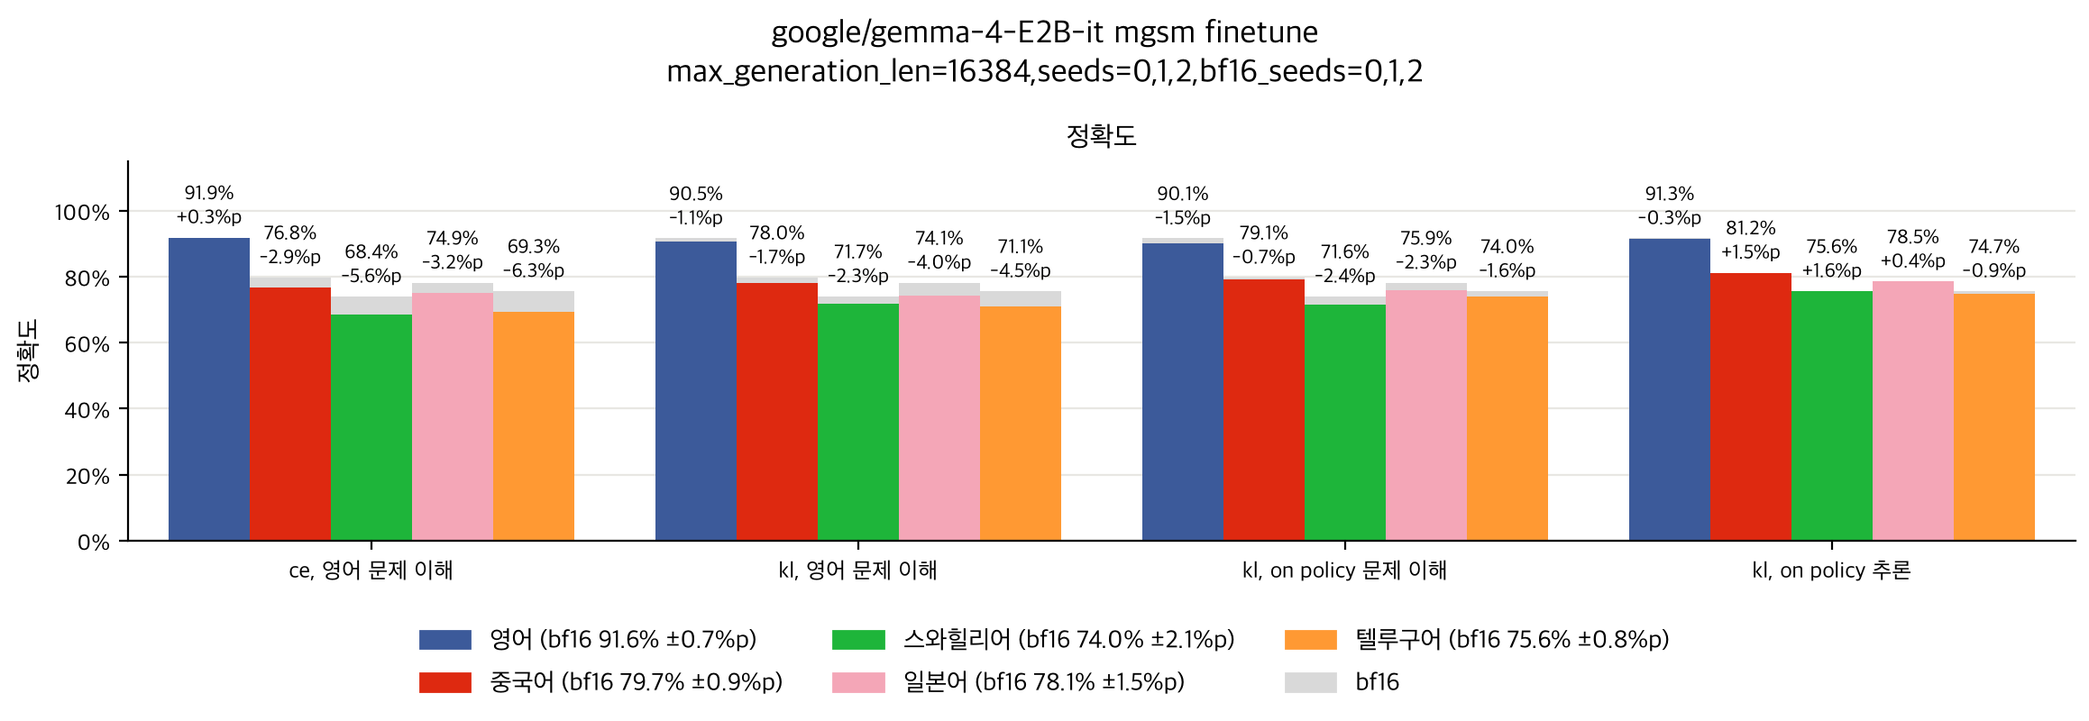
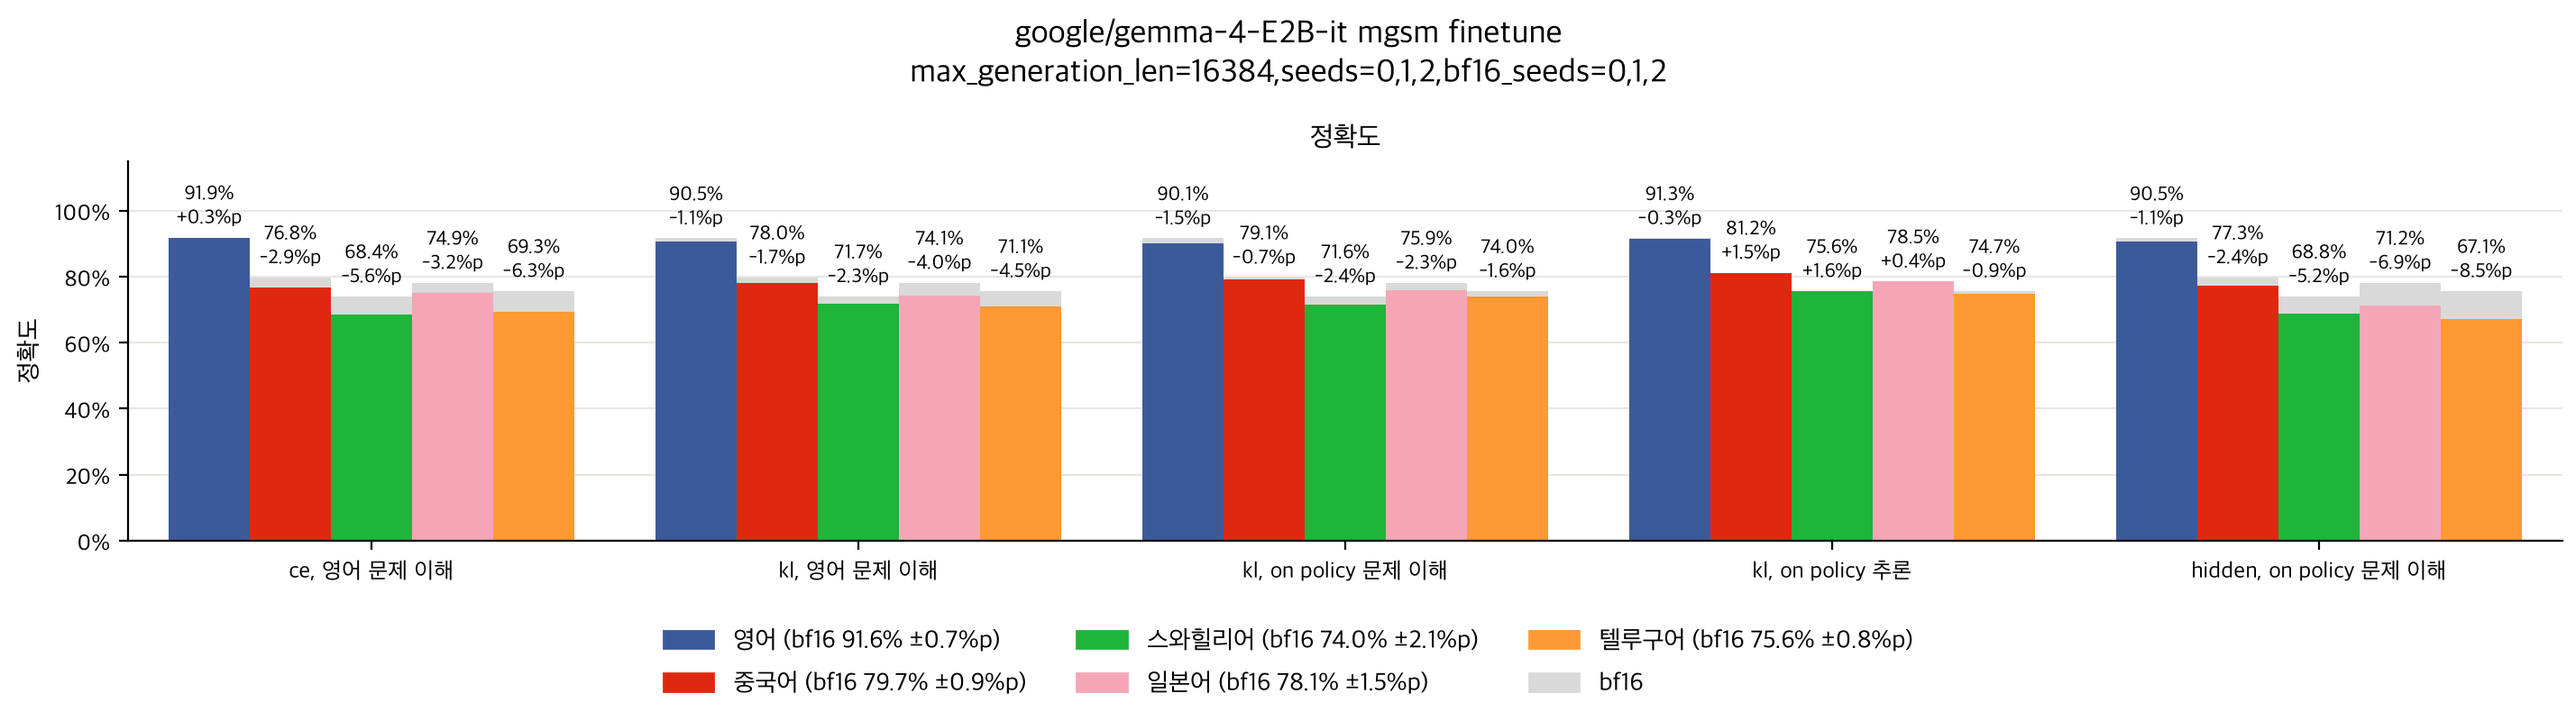
영어 문제 이해 학습 hidden 조합 추가

diff --git a/methods/finetune.py b/methods/finetune.py
@@ -11,7 +11,7 @@ from simple_parsing import parse
 import torch
 from torch import Tensor
 from torch.nn import Linear
-from torch.nn.functional import cross_entropy, log_softmax
+from torch.nn.functional import cosine_similarity, cross_entropy, log_softmax
 from torch.optim import AdamW
 from transformers import AutoTokenizer, PreTrainedModel, PreTrainedTokenizerBase, get_cosine_schedule_with_warmup, set_seed
 
@@ -34,7 +34,7 @@ class Config:
     num_epochs: int = 1
     warmup_ratio: float = 0.05
     batch_size: int = 8
-    loss: Literal["ce", "kl"] = "ce"
+    loss: Literal["ce", "kl", "hidden"] = "ce"
     model_name: str = "google/gemma-4-E2B-it"
     # 학습할 데이터
     think_source: Literal["en", "on_policy"] = "en"
@@ -134,6 +134,31 @@ def get_kl_losses(
         yield (bf16_logprobs.exp() * (bf16_logprobs - logprobs)).sum() / num_positions
 
 
+def get_layer_hiddens(
+    model: PreTrainedModel,
+    input_ids: Tensor,
+    prompt_len: int,
+) -> Tensor:
+    # layer마다 텍스트 위치 hidden state 반환, embedding은 두 입력에서 같아 제외
+    hidden_states = model.model(input_ids=input_ids[None, :].to(model.device), output_hidden_states=True, use_cache=False).hidden_states
+    return torch.stack(hidden_states[1:])[:, 0, prompt_len:]
+
+
+def get_hidden_losses(
+    model: PreTrainedModel,
+    bf16_model: PreTrainedModel,
+    batch: list[tuple[Tensor, Tensor, Tensor]],
+) -> Iterator[Tensor]:
+    # kl과 같이 넣고 그 텍스트 위치에서 layer마다 hidden state를 bf16에 cosine 유사도로 맞춤
+    num_positions = sum(len(think_ids) for _, _, think_ids in batch)
+    for prompt_ids, en_prompt_ids, think_ids in batch:
+        with torch.no_grad(), torch.autocast("cuda", dtype=torch.bfloat16):
+            bf16_hiddens = get_layer_hiddens(bf16_model, torch.cat([en_prompt_ids, think_ids]), len(en_prompt_ids))
+        with torch.autocast("cuda", dtype=torch.bfloat16):
+            hiddens = get_layer_hiddens(model, torch.cat([prompt_ids, think_ids]), len(prompt_ids))
+        yield (1 - cosine_similarity(hiddens.float(), bf16_hiddens.float(), dim=-1)).mean(0).sum() / num_positions
+
+
 def get_losses(
     model: PreTrainedModel,
     bf16_model: PreTrainedModel | None,
@@ -148,7 +173,11 @@ def get_losses(
         batch = generate_thinks(model, tokenizer, model_name, think_part, batch)
     if loss == "ce":
         return get_ce_losses(model, batch)
-    return get_kl_losses(model, bf16_model, batch)
+    if loss == "kl":
+        return get_kl_losses(model, bf16_model, batch)
+    if loss == "hidden":
+        return get_hidden_losses(model, bf16_model, batch)
+    raise ValueError(f"unknown loss {loss}")
 
 
 def train(
@@ -196,7 +225,7 @@ def main() -> None:
     tokenizer = AutoTokenizer.from_pretrained(config.model_name)
     model = load_model(config.model_name)
     model.float()
-    # kl에는 고정된 bf16 따로 사용, 학습 중 모델이 바뀌기 때문
+    # kl, hidden에는 고정된 bf16 따로 사용, 학습 중 모델이 바뀌기 때문
     bf16_model = None if config.loss == "ce" else load_model(config.model_name)
     samples = load_samples(tokenizer, config.model_name, config.seed, config.max_generation_len, config.think_source, config.think_part)[: config.num_samples]
 

diff --git a/benchmarks/mgsm.py b/benchmarks/mgsm.py
@@ -19,7 +19,7 @@ class Config:
     num_bits: int = 4
     group_size: int = 128
     num_samples: int = 128
-    loss: Literal["ce", "kl"] = "ce"
+    loss: Literal["ce", "kl", "hidden"] = "ce"
     think_source: Literal["en", "on_policy"] = "en"
     think_part: Literal["understanding", "reasoning"] = "understanding"
 

diff --git a/plots/finetune.py b/plots/finetune.py
@@ -13,6 +13,7 @@ CASES = {
     "kl, 영어 문제 이해": ("kl", "en", "understanding"),
     "kl, on policy 문제 이해": ("kl", "on_policy", "understanding"),
     "kl, on policy 추론": ("kl", "on_policy", "reasoning"),
+    "hidden, on policy 문제 이해": ("hidden", "on_policy", "understanding"),
 }
 
 

diff --git a/docs/results.md b/docs/results.md
@@ -170,15 +170,16 @@ calibration 언어가 중요한지 확인
 #### 설정
 - ce: cross entropy
 - kl: 영어 프롬프트를 넣은 bf16의 다음 token 예측과의 kl
+- hidden: 영어 프롬프트를 넣은 bf16의 layer마다 hidden state와의 cosine 유사도
 - on policy: 학습 중인 모델이 해당 언어 프롬프트에 직접 쓴 텍스트
-- on policy는 kl만, ce는 모델이 쓴 텍스트를 그대로 다시 학습하기 때문
+- on policy는 kl과 hidden만, ce는 모델이 쓴 텍스트를 그대로 다시 학습하기 때문
 - 양자화 없이 bf16 weight에서 학습, 양자화 모델을 학습하기 전에 먼저 확인하기 때문
 - gsm8k train 질문을 [mcot](https://huggingface.co/datasets/laihuiyuan/mCoT-MATH)에서 중국어, 스와힐리어, 일본어, 텔루구어로 가져옴
 - adamw lr 1e-5, weight decay 없음, cosine schedule, warmup 5%, batch size 8, 1 epoch
 - on policy는 학습 중인 모델로 해당 언어 프롬프트에 추론 생성, 문제 이해는 512 token, 추론은 2048 token까지
 - 해당 언어 프롬프트 뒤, 추론 시작에 학습할 텍스트 입력
-- kl은 같은 텍스트를 영어 프롬프트 뒤에도 넣어 bf16에 입력
-- 그 텍스트 위치에서만 다음 token 예측을 ce 또는 kl로 학습
+- kl과 hidden은 같은 텍스트를 영어 프롬프트 뒤에도 넣어 bf16에 입력
+- 그 텍스트 위치에서만 ce, kl 또는 hidden으로 학습
 - 해당 언어 프롬프트에서 bf16과 비교
 - bf16 seed 0이 영어와 해당 언어에서 모두 풀고 두 추론에 모두 문제 이해가 있는 문제 중 앞 4000개, 언어마다 약 1000개
 - on policy는 문제 이해가 없는 추론 제외
